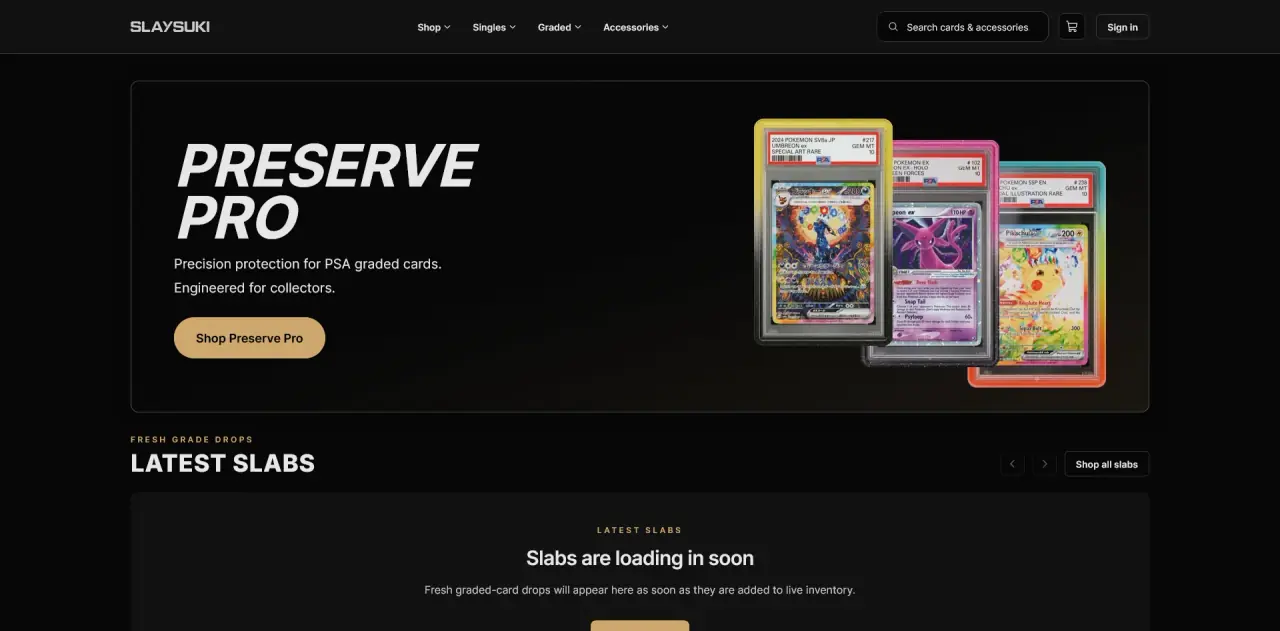
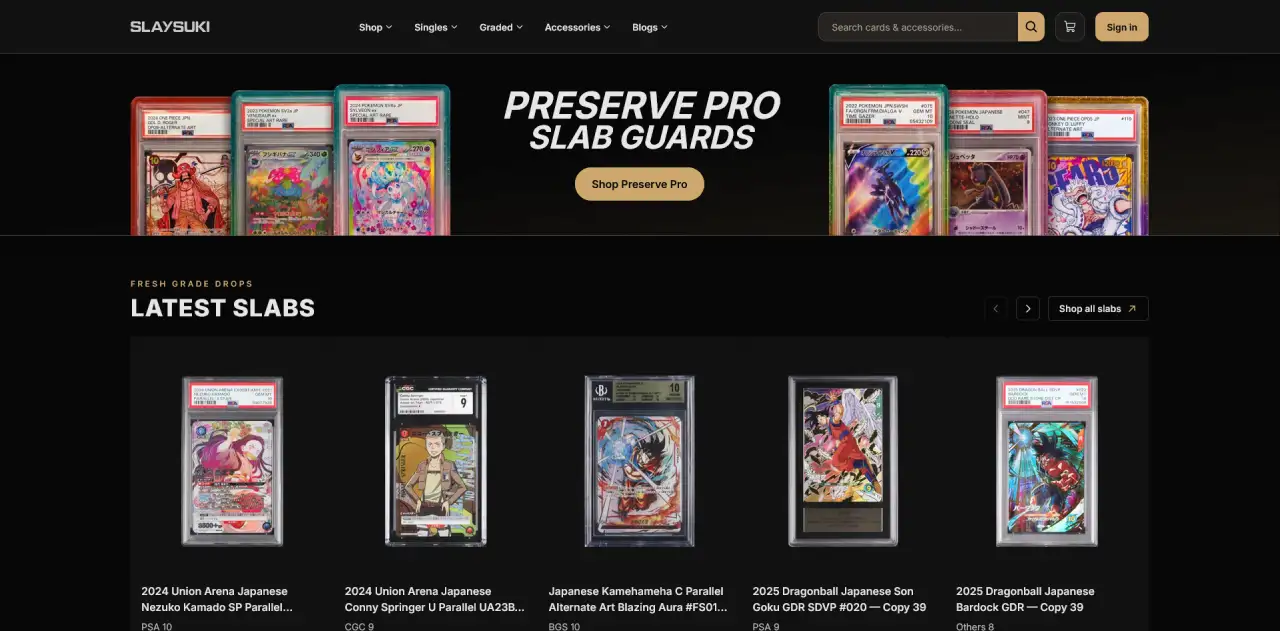
Updated Slaysuki images

diff --git a/app/sections/Projects.js b/app/sections/Projects.js
@@ -7,6 +7,10 @@ import CompactScrollItem from "../components/CompactScrollItem";
 import { ArrowUpRight, GithubLogo } from "@phosphor-icons/react";
 import slaysuki1 from "@/public/project-image/slaysuki/1-opt.webp";
 import slaysuki2 from "@/public/project-image/slaysuki/2-opt.webp";
+import slaysuki3 from "@/public/project-image/slaysuki/3-opt.webp";
+import slaysuki4 from "@/public/project-image/slaysuki/4-opt.webp";
+import slaysuki5 from "@/public/project-image/slaysuki/5-opt.webp";
+import slaysuki6 from "@/public/project-image/slaysuki/6-opt.webp";
 import urmi1 from "@/public/project-image/urmi-portfolio/1-opt.webp";
 import urmi2 from "@/public/project-image/urmi-portfolio/2-opt.webp";
 import urmi3 from "@/public/project-image/urmi-portfolio/3-opt.webp";
@@ -29,7 +33,7 @@ const projects = [
     ],
     tech: ["TypeScript", "Next.js", "React", "NestJS", "PostgreSQL", "Prisma ORM", "Tailwind CSS", "TanStack Query", "Redis", "BullMQ", "Cloudflare R2", "Razorpay", "Shiprocket"],
     live: "https://www.slaysuki.com/",
-    images: [slaysuki1, slaysuki2],
+    images: [slaysuki1, slaysuki2, slaysuki3, slaysuki4, slaysuki5, slaysuki6],
   },
   {
     title: "Journalist Portfolio & CMS",
